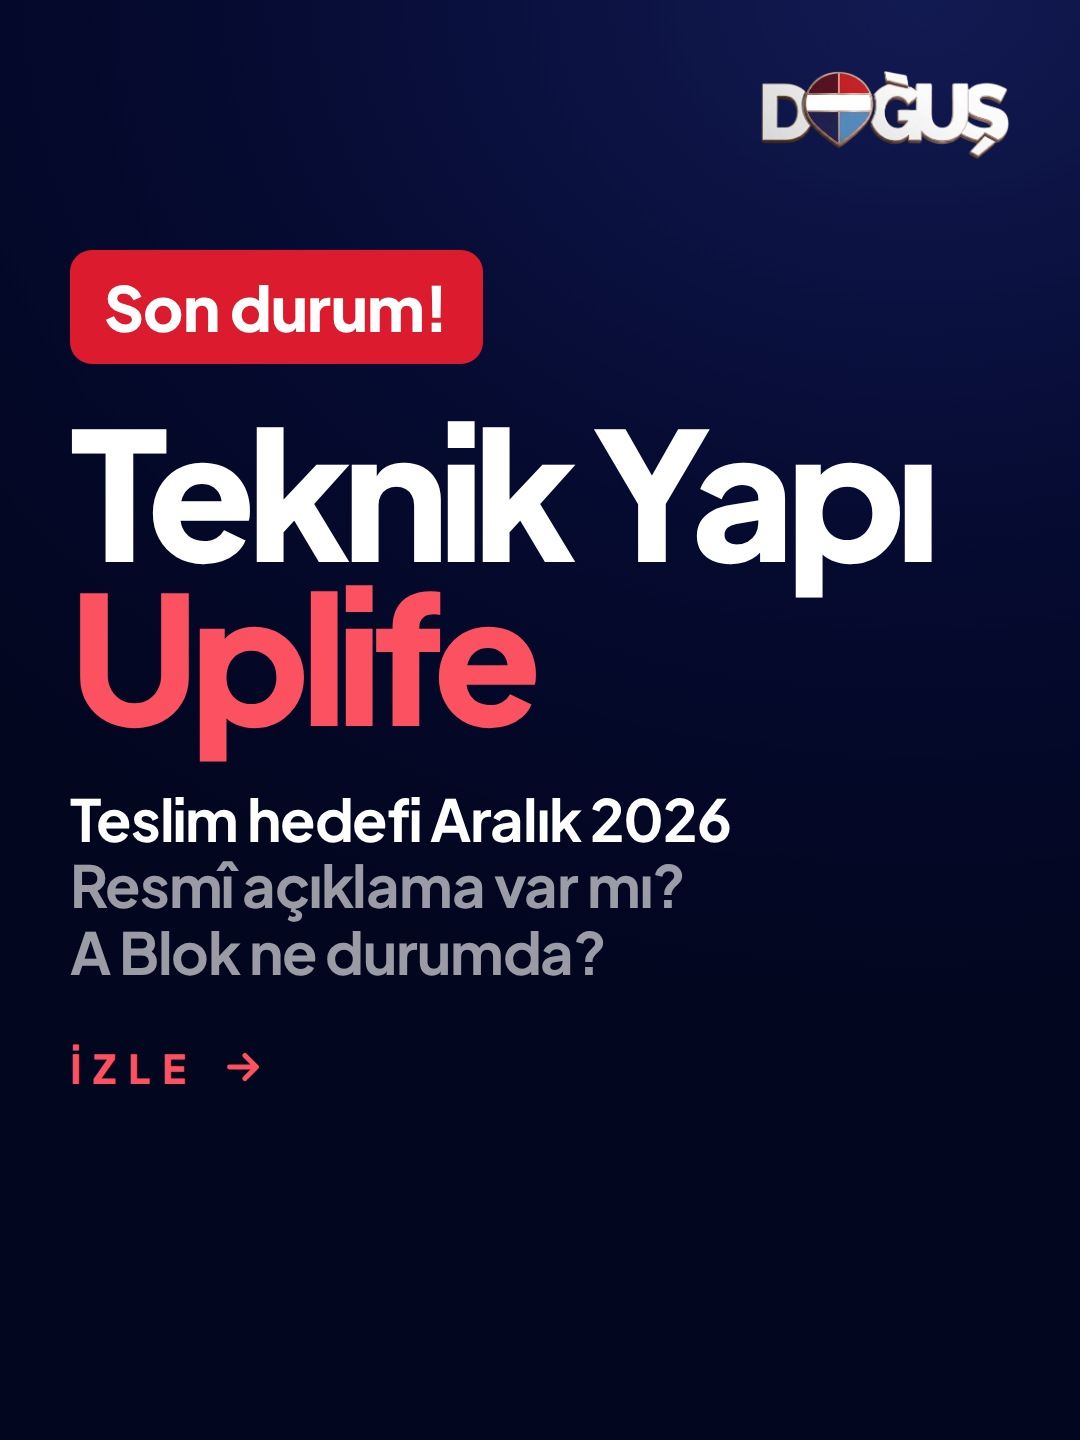
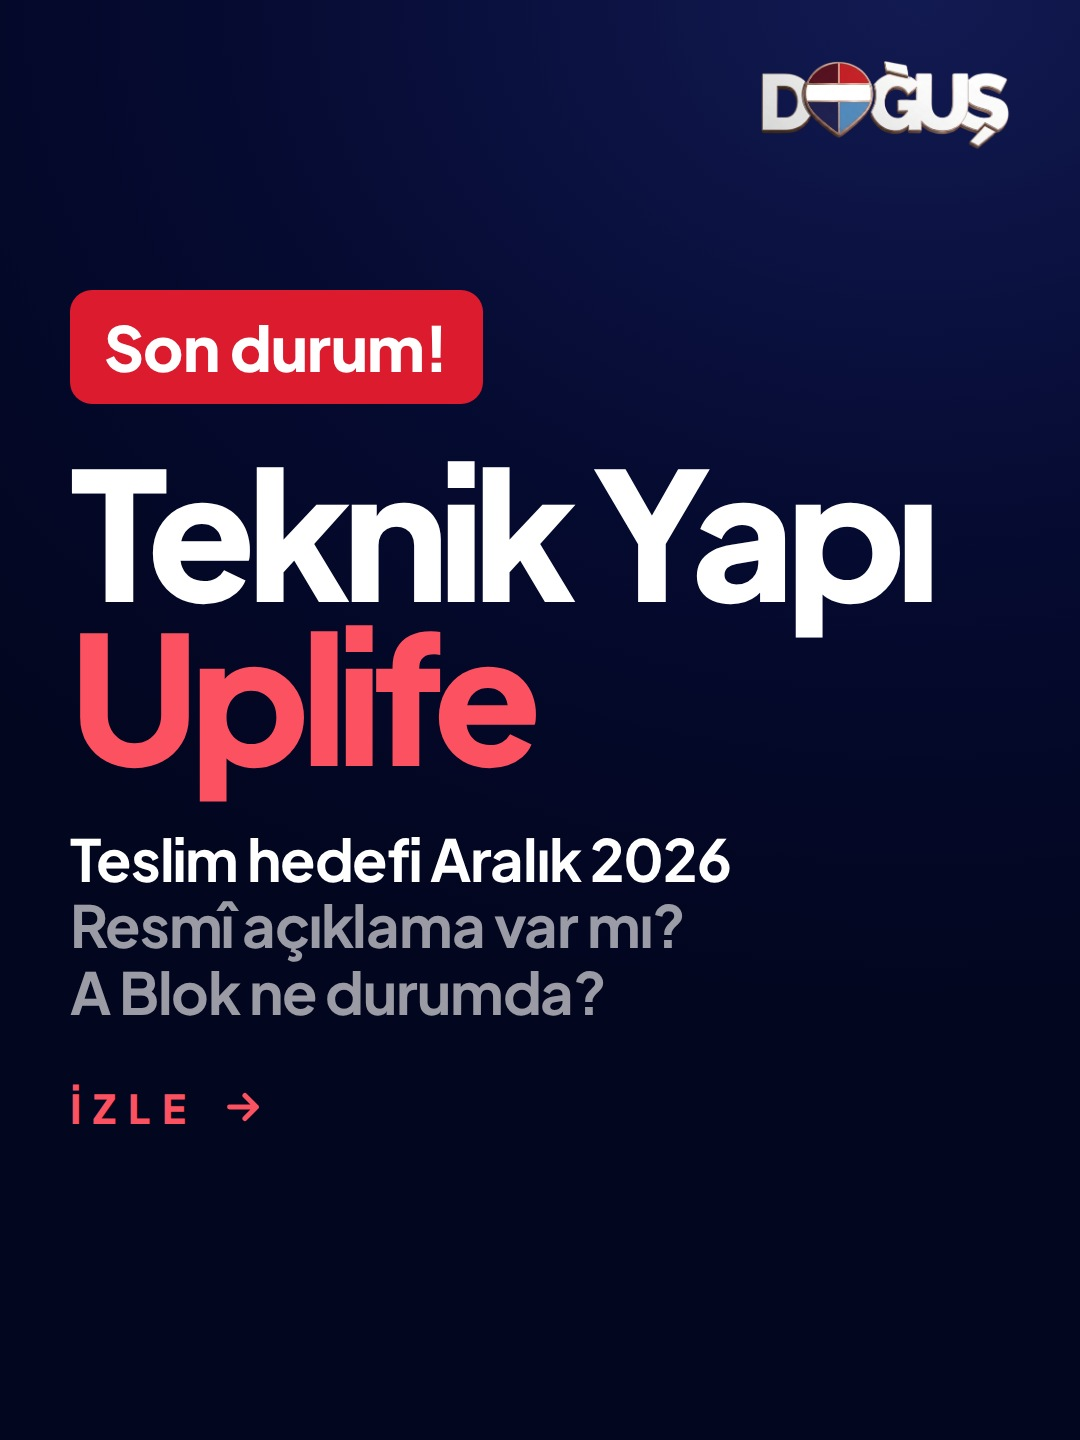
Kapaklar: 3:4 dosyalar Instagram izgara kirpimiyla birebir hizalandi
Claude-Session: https://claude.ai/code/session_01WRjv6iEbjtXjTmoaDMzP1n

Changed region(s): [[0.0611, 0.1562, 0.6722, 0.7812], [0.55, 0.2812, 0.8861, 0.4688], [0.7028, 0.0312, 0.9472, 0.125]]

diff --git a/ikiyaka/kapak.html b/ikiyaka/kapak.html
@@ -27,7 +27,9 @@ h1 .hl{color:#FB5160}
 .red .kay{color:#fff}
 .red .kay svg{stroke:#fff}
 /* İçerik üç kapakta da aynı yükseklikten başlasın */
-#c{justify-content:flex-start!important;padding-top:250px!important}
+#c{justify-content:flex-start!important;padding-top:290px!important}
+.logo{top:60px!important}
+.reel .logo{top:300px!important}
 .reel #c{padding-top:530px!important}
 </style>
 </head>

diff --git a/medyan/kapak-buyuk.html b/medyan/kapak-buyuk.html
@@ -27,7 +27,9 @@ h1 .hl{color:#FB5160}
 .red .kay{color:#fff}
 .red .kay svg{stroke:#fff}
 /* İçerik üç kapakta da aynı yükseklikten başlasın */
-#c{justify-content:flex-start!important;padding-top:250px!important}
+#c{justify-content:flex-start!important;padding-top:290px!important}
+.logo{top:60px!important}
+.reel .logo{top:300px!important}
 .reel #c{padding-top:530px!important}
 </style>
 </head>

diff --git a/uplife/kapak.html b/uplife/kapak.html
@@ -27,7 +27,9 @@ h1 .hl{color:#FB5160}
 .red .kay{color:#fff}
 .red .kay svg{stroke:#fff}
 /* İçerik üç kapakta da aynı yükseklikten başlasın */
-#c{justify-content:flex-start!important;padding-top:250px!important}
+#c{justify-content:flex-start!important;padding-top:290px!important}
+.logo{top:60px!important}
+.reel .logo{top:300px!important}
 .reel #c{padding-top:530px!important}
 </style>
 </head>
